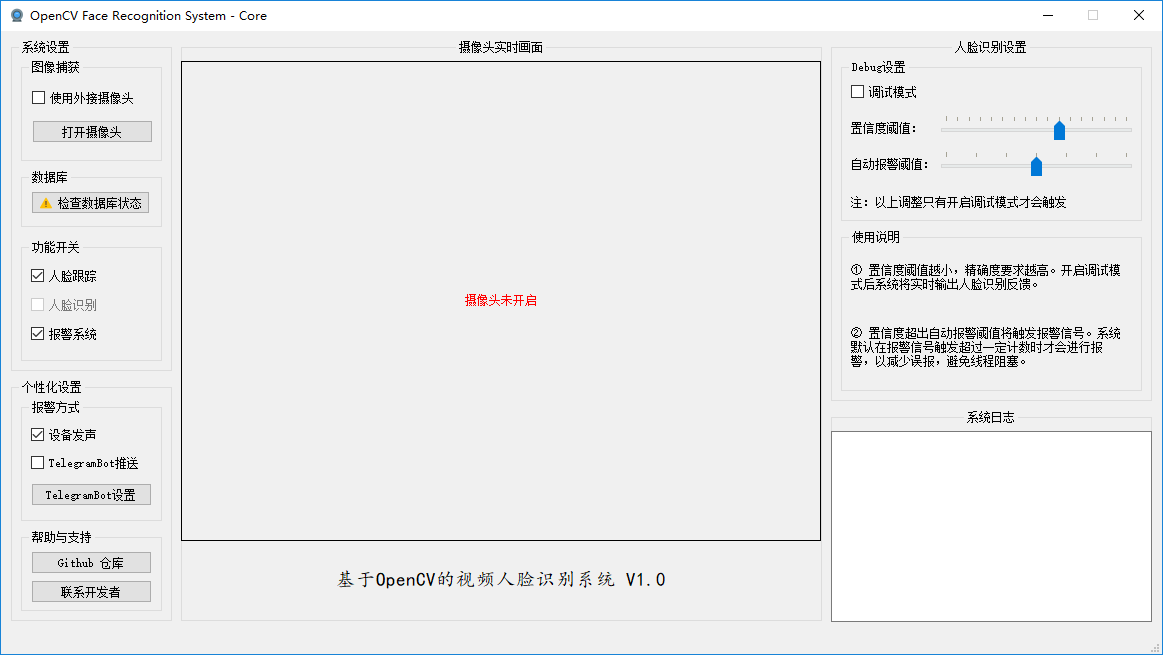
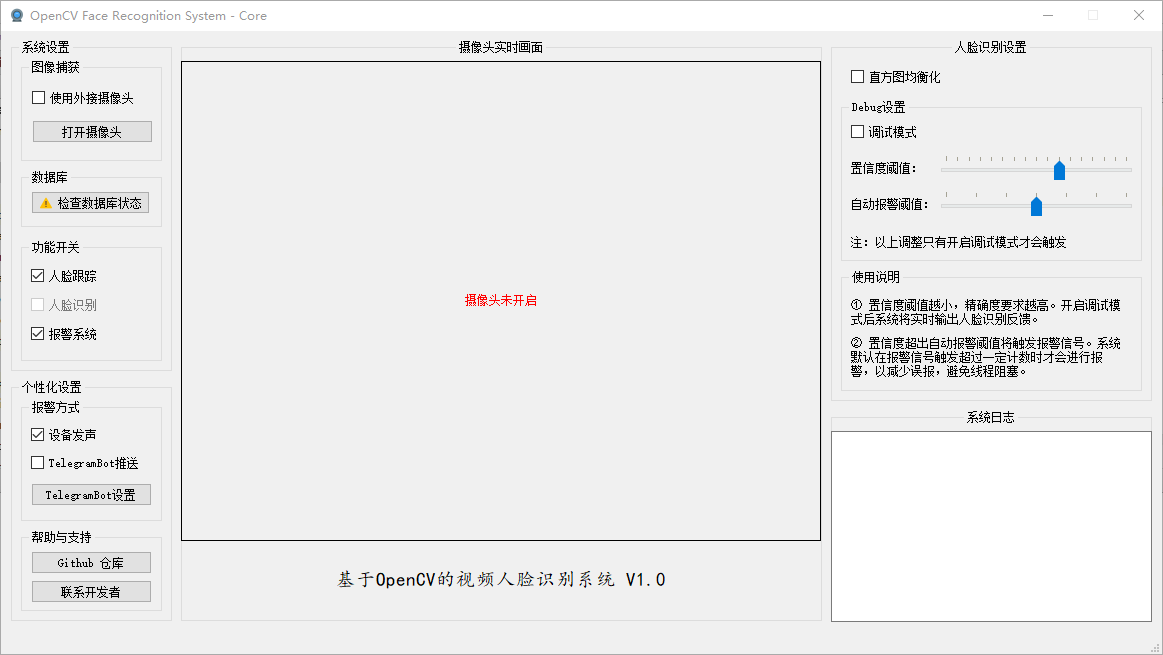
新增：直方图均衡化

diff --git a/core.py b/core.py
@@ -71,6 +71,10 @@ class CoreUI(QMainWindow):
             lambda: self.faceProcessingThread.enableFaceRecognizer(self))
         self.panalarmCheckBox.stateChanged.connect(lambda: self.faceProcessingThread.enablePanalarm(self))
 
+        # 直方图均衡化
+        self.equalizeHistCheckBox.stateChanged.connect(
+            lambda: self.faceProcessingThread.enableEqualizeHist(self))
+
         # 调试模式
         self.debugCheckBox.stateChanged.connect(lambda: self.faceProcessingThread.enableDebug(self))
         self.confidenceThresholdSlider.valueChanged.connect(
@@ -414,6 +418,8 @@ class FaceProcessingThread(QThread):
         self.confidenceThreshold = 50
         self.autoAlarmThreshold = 65
 
+        self.isEqualizeHistEnabled = False
+
     # 是否开启人脸跟踪
     def enableFaceTracker(self, coreUI):
         if coreUI.faceTrackerCheckBox.isChecked():
@@ -467,6 +473,15 @@ class FaceProcessingThread(QThread):
             self.autoAlarmThreshold = coreUI.autoAlarmThresholdSlider.value()
             coreUI.statusBar().showMessage('自动报警阈值：{}'.format(self.autoAlarmThreshold))
 
+    # 是否执行直方图均衡化
+    def enableEqualizeHist(self, coreUI):
+        if coreUI.equalizeHistCheckBox.isChecked():
+            self.isEqualizeHistEnabled = True
+            coreUI.statusBar().showMessage('直方图均衡化：开启')
+        else:
+            self.isEqualizeHistEnabled = False
+            coreUI.statusBar().showMessage('直方图均衡化：关闭')
+
     def run(self):
         faceCascade = cv2.CascadeClassifier('./haarcascades/haarcascade_frontalface_default.xml')
 
@@ -484,6 +499,8 @@ class FaceProcessingThread(QThread):
             if CoreUI.cap.isOpened():
                 ret, frame = CoreUI.cap.read()
                 gray = cv2.cvtColor(frame, cv2.COLOR_BGR2GRAY)
+                if self.isEqualizeHistEnabled:
+                    gray = cv2.equalizeHist(gray)
                 faces = faceCascade.detectMultiScale(gray, 1.3, 5, minSize=(90, 90))
 
                 # 预加载数据文件

diff --git a/dataManage.py b/dataManage.py
@@ -49,6 +49,11 @@ class DataManageUI(QWidget):
         self.queryUserButton.clicked.connect(self.queryUser)
         self.deleteUserButton.clicked.connect(self.deleteUser)
 
+        # 直方图均衡化
+        self.isEqualizeHistEnabled = False
+        self.equalizeHistCheckBox.stateChanged.connect(
+            lambda: self.enableEqualizeHist(self.equalizeHistCheckBox))
+
         # 训练人脸数据
         self.trainButton.clicked.connect(self.train)
 
@@ -56,6 +61,13 @@ class DataManageUI(QWidget):
         self.receiveLogSignal.connect(lambda log: self.logOutput(log))
         self.logOutputThread = threading.Thread(target=self.receiveLog, daemon=True)
         self.logOutputThread.start()
+
+    # 是否执行直方图均衡化
+    def enableEqualizeHist(self, equalizeHistCheckBox):
+        if equalizeHistCheckBox.isChecked():
+            self.isEqualizeHistEnabled = True
+        else:
+            self.isEqualizeHistEnabled = False
 
     # 初始化/刷新数据库
     def initDb(self):
@@ -182,6 +194,8 @@ class DataManageUI(QWidget):
     # 检测人脸
     def detectFace(self, img):
         gray = cv2.cvtColor(img, cv2.COLOR_BGR2GRAY)
+        if self.isEqualizeHistEnabled:
+            gray = cv2.equalizeHist(gray)
         face_cascade = cv2.CascadeClassifier('./haarcascades/haarcascade_frontalface_default.xml')
         faces = face_cascade.detectMultiScale(gray, scaleFactor=1.3, minNeighbors=5, minSize=(90, 90))
 
